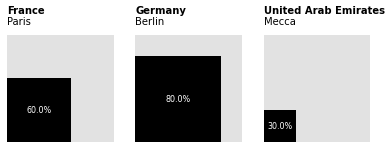
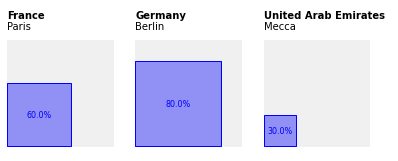
Major Version - 1.0.1
Bug Fixes
Multi line props bug fixed

diff --git a/src/matprops/props.py b/src/matprops/props.py
@@ -4,7 +4,7 @@ import matplotlib.pyplot as plt
 import math
 import warnings
 
-def AreaProp(dataset, col, cols=8, labels=True, label_loc="inc", labelcolor="white", title=None, title_loc="tl", facecolor="black", bgcolor="#707070", description=None):
+def AreaProp(dataset, col, cols=8, labels=True, label_loc="inc", labelcolor="blue", title=None, title_loc="tl", facecolor="blue", bgcolor="#707070", description=None):
     """
     Square area proportional chart
     This function is used to create and customize almost everything in basic square area proportional chart
@@ -71,8 +71,8 @@ def AreaProp(dataset, col, cols=8, labels=True, label_loc="inc", labelcolor="whi
     fig = plt.figure(figsize=(18, 2 * rows))
     for index, row in dataset.iterrows():
         ax = fig.add_subplot(rows, cols, index + 1)
-        ax.axvspan(0, 1, ymax=1, fc=bgcolor, alpha=0.2)
-        ax.axvspan(0, row[col], ymax=row[col], fc=facecolor)
+        ax.axvspan(0, 1, ymax=1, fc=bgcolor, alpha=0.1)
+        ax.axvspan(0, row[col], ymin=0.01 , ymax=row[col], fc=matplotlib.colors.to_hex(facecolor)+"66", ec=facecolor)
         if labels:
             if label_loc == "inc":
                 label_locations_reset = [row[col] / 2, row[col] / 2, "center", "center"]
@@ -91,7 +91,7 @@ def AreaProp(dataset, col, cols=8, labels=True, label_loc="inc", labelcolor="whi
             if label_loc == "outtr":
                 label_locations_reset = [row[col] + 0.05, row[col] - 0.1, "left", "bottom"]
             # label_locations_reset = __get_label_location(row[col], label_loc)
-            ax.text(label_locations_reset[0], label_locations_reset[1], str(row[col] * 100) + "%", c=labelcolor,
+            ax.text(label_locations_reset[0], label_locations_reset[1], str(row[col] * 100) + "%", c=matplotlib.colors.to_hex(labelcolor),
                     fontsize=8, ha=label_locations_reset[2], va=label_locations_reset[3])
         if description is None:
             if title is not None:
@@ -154,5 +154,7 @@ def AreaProp(dataset, col, cols=8, labels=True, label_loc="inc", labelcolor="whi
         ax.set_yticks([])
         ax.set_xlim(0, 1)
         ax.set_ylim(0, 1)
+    if rows > 1:
+        fig.tight_layout()
     plt.show();
 

diff --git a/setup.py b/setup.py
@@ -5,7 +5,7 @@ with open("README.md", "r") as fh:
 
 setup(
     name='matprops',
-    version='1.0.0',
+    version='1.0.1',
     description='Python library written on top of matplotlib library for customizable proportional charts',
     py_modules=['matprops'],
     package_dir={'': 'src'},
